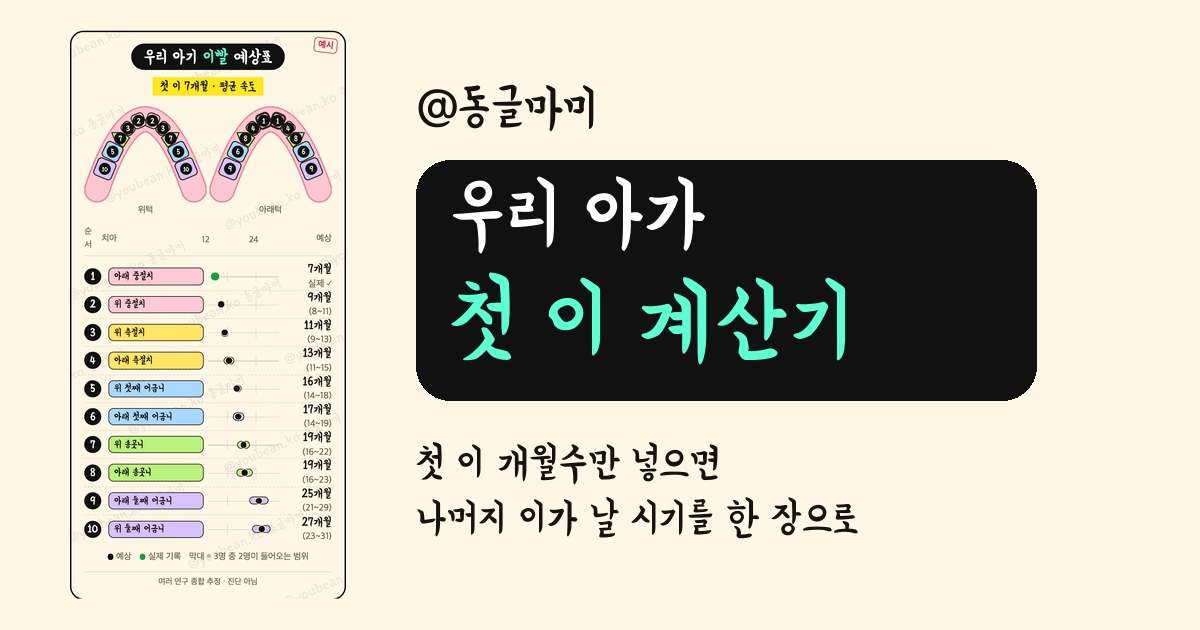
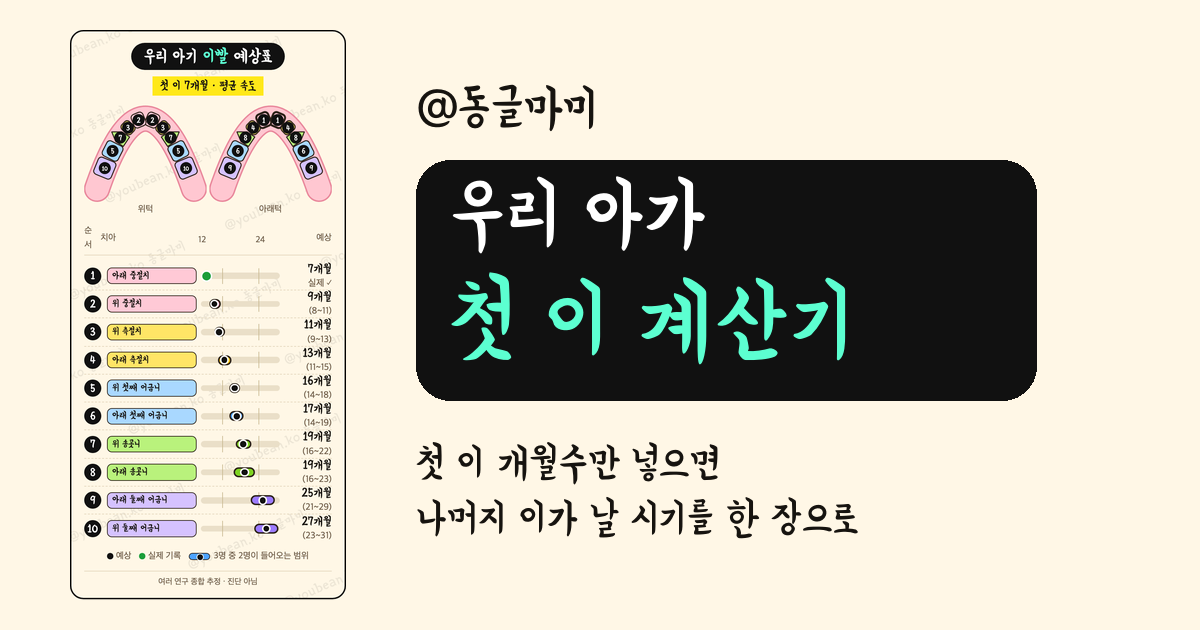
Two-page flow: result button, clearer range bars, no card on input page

diff --git a/index.html b/index.html
@@ -89,6 +89,7 @@ details > .body{padding:0 16px 16px;display:flex;flex-direction:column;gap:10px;
 .known label{display:flex;flex-direction:column;gap:4px;font-size:13px;min-width:0}
 .known .tag{display:inline-block;border-radius:8px;padding:1px 8px;color:var(--on-pastel);border:1.5px solid #2B2118;font-size:13px;align-self:flex-start}
 .btn{min-height:50px;border-radius:14px;border:2px solid var(--ink);background:var(--label-bg);color:var(--label-ink);font:inherit;font-weight:700;font-size:16px;cursor:pointer;padding:0 18px;display:inline-flex;align-items:center;justify-content:center;text-decoration:none}
+.btn.go{min-height:62px;font-family:var(--f-display);font-weight:400;font-size:25px;background:var(--title-bg);color:var(--mint);border:2px solid var(--title-bg);border-radius:16px}
 .btn.ghost{background:transparent;color:var(--ink)}
 .row2{display:flex;flex-wrap:wrap;gap:10px}
 .row2 > *{flex:1 1 150px}
@@ -100,14 +101,13 @@ details > .body{padding:0 16px 16px;display:flex;flex-direction:column;gap:10px;
 .c-top{display:flex;align-items:center;justify-content:center;gap:.5em;flex-wrap:wrap}
 .c-label{display:inline-block;background:var(--card-black);color:#fff;border-radius:.8em;padding:.12em .7em;font-size:1.45em;line-height:1.25;white-space:nowrap;max-width:100%;overflow:hidden;text-overflow:ellipsis}
 .c-label b{font-weight:400;color:var(--mint)}
-.c-ex{position:absolute;top:.7em;right:.8em;font-size:.72em;border:.12em solid var(--red);color:var(--red);border-radius:.4em;padding:0 .4em;transform:rotate(6deg);font-family:var(--f-body);font-weight:700}
 .c-sub{text-align:center}
 .yb{display:inline-block;background:var(--yellow);color:var(--on-pastel);padding:.05em .6em;font-size:1.02em;line-height:1.4}
 .c-arches{display:grid;grid-template-columns:1fr 1fr;gap:.2em;align-items:start}
 .c-arches figure{margin:0;text-align:center;min-width:0}
 .c-arches svg{width:100%;height:auto;display:block}
 .c-arches figcaption{font-size:.72em;color:var(--card-muted);font-family:var(--f-body)}
-.c-head,.row{display:grid;grid-template-columns:1.6em 7.8em 1fr 3.95em;column-gap:.35em;align-items:center}
+.c-head,.row{display:grid;grid-template-columns:1.5em 7.3em 1fr 3.9em;column-gap:.35em;align-items:center}
 .c-head{font-size:.72em;color:var(--card-muted);font-family:var(--f-body);border-bottom:.1em solid var(--card-line);padding-bottom:.35em;margin-top:.1em}
 .c-head .ax{position:relative;height:1.1em}
 .c-head .ax span{position:absolute;transform:translateX(-50%);top:0;white-space:nowrap}
@@ -116,26 +116,28 @@ details > .body{padding:0 16px 16px;display:flex;flex-direction:column;gap:10px;
 .row{height:2.28em;border-bottom:.06em dashed var(--card-line)}
 .row:last-child{border-bottom:0}
 .row .n{width:1.5em;height:1.5em;border-radius:50%;background:var(--card-black);color:#fff;display:flex;align-items:center;justify-content:center;font-size:.92em}
-.row .nm{display:block;border-radius:.5em;padding:.12em .5em;font-size:.84em;white-space:nowrap;color:var(--on-pastel);border:.1em solid #2B2118;line-height:1.3;overflow:hidden;text-overflow:ellipsis}
-.bar{position:relative;height:1.2em}
-.bar::before{content:"";position:absolute;left:0;right:0;top:50%;height:.08em;background:var(--card-line)}
-.bar .tick{position:absolute;top:.15em;bottom:.15em;width:.06em;background:var(--card-line)}
-.bar .band{position:absolute;top:.28em;height:.64em;border-radius:.4em;border:.09em solid #2B2118;min-width:.5em}
-.bar .dot{position:absolute;top:50%;width:.62em;height:.62em;margin:-.31em 0 0 -.31em;border-radius:50%;background:var(--card-black);border:.1em solid var(--card-bg)}
-.bar .dot.act{background:#1B9E3A;width:.78em;height:.78em;margin:-.39em 0 0 -.39em}
+.row .nm{display:block;border-radius:.5em;padding:.12em .45em;font-size:.8em;white-space:nowrap;color:var(--on-pastel);border:.1em solid #2B2118;line-height:1.3;overflow:hidden;text-overflow:ellipsis}
+.bar{position:relative;height:1.4em}
+.bar::before{content:"";position:absolute;left:0;right:0;top:50%;height:.5em;margin-top:-.25em;border-radius:.3em;background:#EADFC8}
+.bar .tick{position:absolute;top:.05em;bottom:.05em;width:.07em;background:#C9B992}
+.bar .band{position:absolute;top:.3em;height:.8em;border-radius:.45em;border:.12em solid #2B2118;min-width:.9em}
+.bar .dot{position:absolute;top:50%;width:.74em;height:.74em;margin:-.37em 0 0 -.37em;border-radius:50%;background:var(--card-black);border:.13em solid #fff}
+.bar .dot.act{background:#1B9E3A;width:.92em;height:.92em;margin:-.46em 0 0 -.46em}
 .est{text-align:right;line-height:1.1;white-space:nowrap}
 .est b{font-weight:400;font-size:1.02em;display:block}
 .est small{font-size:.76em;color:var(--card-muted);font-family:var(--f-body)}
 .c-foot{display:flex;justify-content:center;align-items:center;gap:.5em;font-family:var(--f-body);font-size:.66em;color:var(--card-muted);border-top:.1em solid var(--card-line);padding-top:.5em;margin-top:.1em}
 .c-note{display:flex;justify-content:center;gap:.9em;flex-wrap:wrap;font-family:var(--f-body);font-size:.72em;color:var(--card-muted)}
+.c-note .lgb{display:inline-block;position:relative;width:2.4em;height:.78em;border:.11em solid #2B2118;border-radius:.45em;background:#4DA3FF;vertical-align:-.12em;margin-right:.4em}
+.c-note .lgb::after{content:"";position:absolute;left:50%;top:50%;width:.6em;height:.6em;margin:-.3em 0 0 -.3em;border-radius:50%;background:#111;border:.1em solid #fff}
 .c-note i{display:inline-block;width:.7em;height:.7em;border-radius:50%;margin-right:.3em;vertical-align:-.05em}
 .card.compact .c-arches{display:none}
-.card > *:not(.wm):not(.c-ex){position:relative;z-index:1}
-.c-ex{z-index:1}
+.card > *:not(.wm){position:relative;z-index:1}
 .wm{position:absolute;left:-30%;top:-30%;width:160%;height:160%;transform:rotate(-24deg);display:flex;flex-direction:column;justify-content:space-between;opacity:.07;pointer-events:none;user-select:none;-webkit-user-select:none;z-index:0;font-family:var(--f-display);color:var(--card-ink);font-size:1.15em;white-space:nowrap;letter-spacing:.04em}
 .wm span:nth-child(even){padding-left:7em}
+#tip:empty{display:none}
 #backbar{display:flex;align-items:center;justify-content:space-between;gap:10px;width:100%;max-width:420px;min-height:44px}
-#backbar p{font-size:13px;color:var(--muted)}
+#backbar .cap{background:var(--title-bg);color:var(--mint);border-radius:12px;padding:6px 12px;font-family:var(--f-display);font-size:16px;white-space:nowrap}
 #backbar .btn{min-height:40px;font-size:14px;padding:0 14px}
 ol.calc{margin:0;padding-left:20px;display:flex;flex-direction:column;gap:8px}
 ul.src{margin:0;padding-left:18px;display:flex;flex-direction:column;gap:4px;font-size:13px;color:var(--muted)}
@@ -200,11 +202,15 @@ ul.src{margin:0;padding-left:18px;display:flex;flex-direction:column;gap:4px;fon
     </details>
   </form>
 
-  <section id="stage" aria-label="이빨 예상표">
-    <div id="backbar" hidden><p>이 화면을 그대로 캡처하세요</p><button type="button" class="btn ghost" id="backbtn">← 다시 입력</button></div>
+  <div class="chrome" id="gowrap" style="display:flex;flex-direction:column;gap:8px">
+    <button type="button" class="btn go" id="gobtn">결과 보러가기 →</button>
+    <p class="note" style="text-align:center">누르면 이빨 예상표가 나와요. 그 화면을 캡처해 저장하세요.</p>
+  </div>
+
+  <section id="stage" aria-label="이빨 예상표" hidden>
+    <div id="backbar"><span class="cap">📸 지금 이 화면을 캡처하세요</span><button type="button" class="btn ghost" id="backbtn">← 다시 입력</button></div>
     <div class="card" id="card" aria-live="polite">
       <div class="wm" id="wm" aria-hidden="true"></div>
-      <span class="c-ex" id="ex">예시</span>
       <div class="c-top"><span class="c-label" id="c-title"></span></div>
       <div class="c-sub"><span class="yb" id="c-sub"></span></div>
       <div class="c-arches">
@@ -213,11 +219,10 @@ ul.src{margin:0;padding-left:18px;display:flex;flex-direction:column;gap:4px;fon
       </div>
       <div class="c-head"><span>순서</span><span>치아</span><span class="ax" id="ax"></span><span>예상</span></div>
       <div class="c-rows" id="rows"></div>
-      <div class="c-note"><span><i style="background:#111"></i>예상</span><span><i style="background:#1B9E3A"></i>실제 기록</span><span>막대 = 3명 중 2명이 들어오는 범위</span></div>
+      <div class="c-note"><span><i style="background:#111"></i>예상</span><span><i style="background:#1B9E3A"></i>실제 기록</span><span><b class="lgb"></b>3명 중 2명이 들어오는 범위</span></div>
       <div class="c-foot"><span>여러 연구 종합 추정 · 진단 아님</span></div>
     </div>
-    <p class="note chrome" id="tip" style="text-align:center"></p>
-    <div id="focusbar" class="chrome"><button type="button" class="btn" id="focusbtn" style="flex:1">결과만 크게 보기 (캡처용)</button></div>
+    <p class="note" id="tip" style="text-align:center"></p>
   </section>
 
   <details class="chrome" id="how">
@@ -279,7 +284,8 @@ var COLORS = {central:'#FFC9D6', lateral:'#FFE566', canine:'#B9F27C', m1:'#A9D8F
 var SIZES = {central:[44,50], lateral:[38,46], canine:[40,52], m1:[58,62], m2:[64,66]};
 var ORDER_TYPES = ['central','lateral','canine','m1','m2'];
 var MU_F = 7.0, SD_F = 1.8;
-var AX_MIN = 4, AX_MAX = 34;
+var AX_MIN = 5, AX_MAX = 31;
+var SAT = {central:'#F48FB1', lateral:'#FFC400', canine:'#7ED321', m1:'#4DA3FF', m2:'#9B7BFF'};
 var INK = '#2B2118';
 
 function rho(k){ return 0.70 - 0.40 * (k - 1) / 9; }
@@ -362,7 +368,6 @@ function render(){
   if (Math.abs(d) < 0.5) pace = '평균 속도';
   else pace = '평균보다 ' + fmt(Math.abs(d)) + '개월 ' + (d < 0 ? '빠른' : '느린') + ' 편';
   document.getElementById('c-sub').textContent = '첫 이 ' + fmt(state.t1) + '개월 · ' + pace;
-  document.getElementById('ex').hidden = state.touched;
 
   document.getElementById('svg-u').innerHTML = archSVG('u', res.rows);
   document.getElementById('svg-l').innerHTML = archSVG('l', res.rows);
@@ -380,7 +385,7 @@ function render(){
       txt = '<b>' + fmt(r.est) + '개월</b><small>실제 ✓</small>';
     } else {
       var bl = pct(r.lo), bw = Math.max(2.5, pct(r.hi) - pct(r.lo));
-      bar += '<i class="band" style="left:'+bl+'%;width:'+bw+'%;background:'+col+'"></i><i class="dot" style="left:'+pct(r.est)+'%"></i>';
+      bar += '<i class="band" style="left:'+bl+'%;width:'+bw+'%;background:'+SAT[t.type]+'"></i><i class="dot" style="left:'+pct(r.est)+'%"></i>';
       txt = '<b>' + est + '개월</b><small>(' + (lo === hi ? lo : lo + '~' + hi) + ')</small>';
     }
     bar += '</span>';
@@ -399,7 +404,8 @@ function fitCard(){
   var c = document.getElementById('card');
   c.classList.remove('compact'); c.style.removeProperty('--w');
   var maxW = Math.min(window.innerWidth - 32, 420);
-  var avail = window.innerHeight - (c.getBoundingClientRect().top + window.scrollY) - 8;
+  var tipH = document.getElementById('tip').textContent ? document.getElementById('tip').offsetHeight + 8 : 0;
+  var avail = window.innerHeight - (c.getBoundingClientRect().top + window.scrollY) - 8 - tipH;
   function hEm(){ return c.getBoundingClientRect().height / parseFloat(getComputedStyle(c).fontSize); }
   var w = Math.min(maxW, avail * 22.5 / hEm());
   if (w < maxW * 0.92 || w / 22.5 < 12.4){ c.classList.add('compact'); w = Math.min(maxW, avail * 22.5 / hEm()); }
@@ -484,20 +490,25 @@ function calcDate(){
   document.getElementById('fd').addEventListener('change', calcDate);
   document.getElementById('form').addEventListener('submit', function(e){ e.preventDefault(); });
 
-  var chrome = document.querySelectorAll('.chrome');
-  document.getElementById('focusbtn').addEventListener('click', function(){
+  function showResult(){
+    state.touched = true; render();
+    var chrome = document.querySelectorAll('.chrome');
     for (var i = 0; i < chrome.length; i++) chrome[i].hidden = true;
-    document.getElementById('backbar').hidden = false;
+    document.getElementById('stage').hidden = false;
     document.body.classList.add('focus');
     focusOn = true; fitCard();
     window.scrollTo(0, 0);
-  });
-  document.getElementById('backbtn').addEventListener('click', function(){
+  }
+  function showInput(){
+    var chrome = document.querySelectorAll('.chrome');
     for (var i = 0; i < chrome.length; i++) chrome[i].hidden = false;
-    document.getElementById('backbar').hidden = true;
+    document.getElementById('stage').hidden = true;
     focusOn = false; document.body.classList.remove('focus');
     var c = document.getElementById('card'); c.classList.remove('compact'); c.style.removeProperty('--w');
-  });
+    window.scrollTo(0, 0);
+  }
+  document.getElementById('gobtn').addEventListener('click', showResult);
+  document.getElementById('backbtn').addEventListener('click', showInput);
 
   try {
     var saved = JSON.parse(localStorage.getItem('tooth-calc') || 'null');
